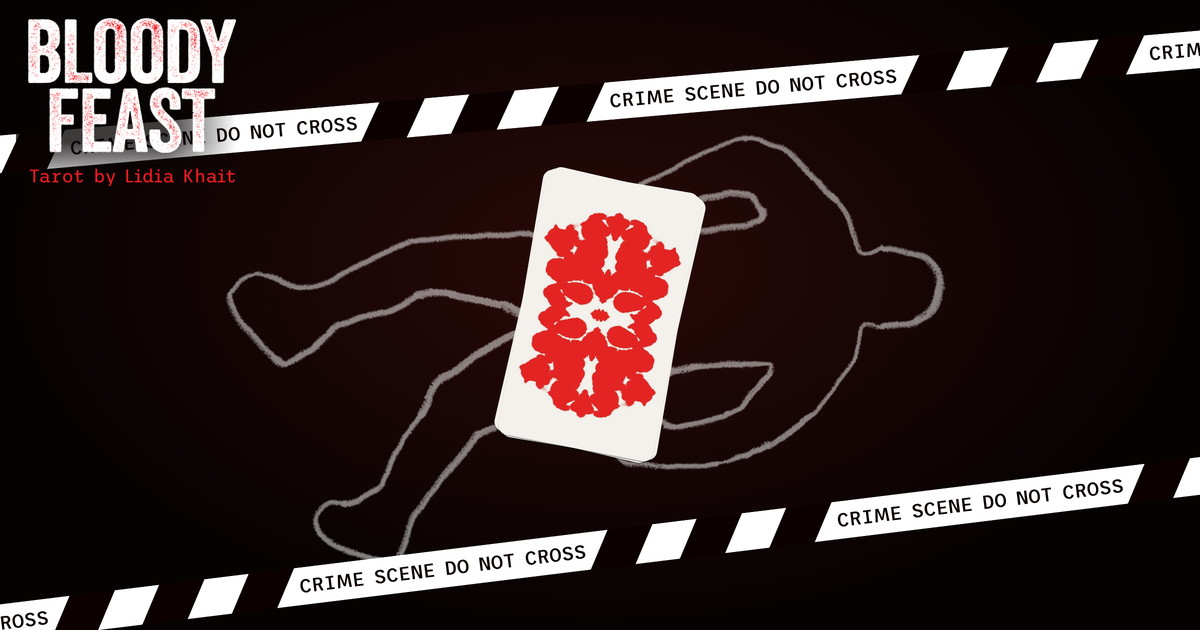
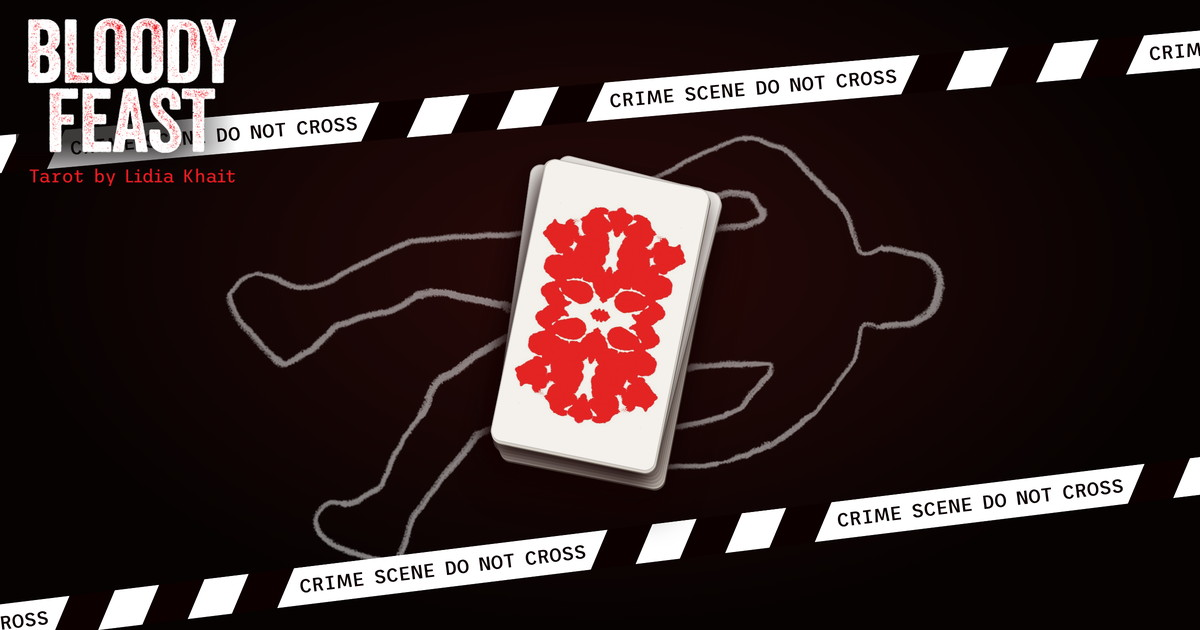
Cursor: give the link-preview deck a real stacked edge.

Changed region(s): [[0.4008, 0.2413, 0.6167, 0.7841]]

diff --git a/index.html b/index.html
@@ -13,7 +13,7 @@
 <meta property="og:url" content="https://lidkin.github.io/bloody-tarot/">
 <meta property="og:title" content="Bloody Feast Tarot — хочешь знать?">
 <meta property="og:description" content="Карта дня и расклад на три карты из колоды Лидии Хаит. Card of the day and a three-card spread.">
-<meta property="og:image" content="https://lidkin.github.io/bloody-tarot/og-image.jpg?v=12">
+<meta property="og:image" content="https://lidkin.github.io/bloody-tarot/og-image.jpg?v=13">
 <meta property="og:image:width" content="1200">
 <meta property="og:image:height" content="630">
 <meta name="twitter:card" content="summary_large_image">
